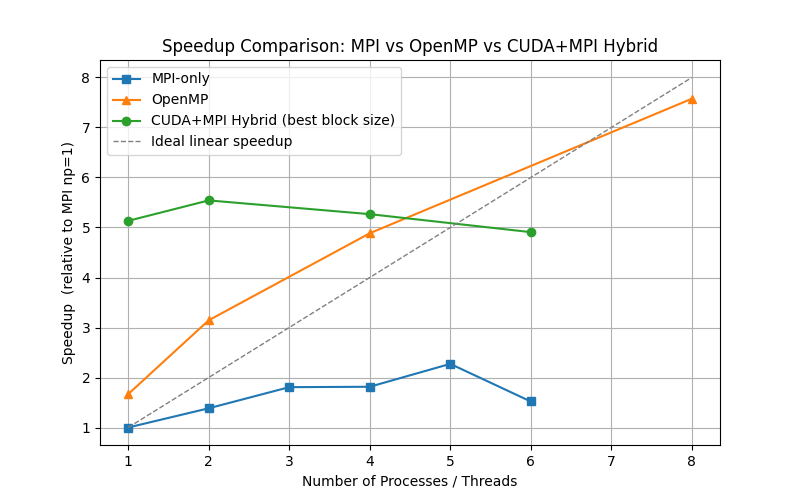
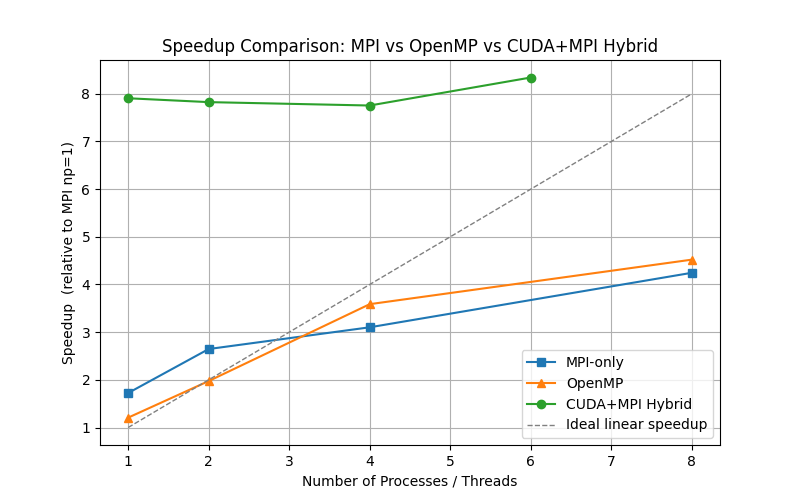
fix: corrected the speedup graph

diff --git a/scripts/visualization/plot_hybrid_speedup.py b/scripts/visualization/plot_hybrid_speedup.py
@@ -19,11 +19,19 @@ plots_dir.mkdir(parents=True, exist_ok=True)
 image_path   = plots_dir / "hybrid_speedup_comparison.png"
 
 hybrid_path = bench_dir / "hybrid_benchmarks.txt"
-mpi_path    = bench_dir / "mpi_benchmarks.txt"
-omp_path    = bench_dir / "openmp_execution_results.txt"
+mpi_exec_path = bench_dir / "mpi_execution_results.txt"
+omp_exec_path = bench_dir / "openmp_execution_results.txt"
+
+# speedup files (saved, same format as MPI/OpenMP speedup outputs)
+mpi_speedup_path = bench_dir / "mpi_speedup_results.txt"
+omp_speedup_path = bench_dir / "openmp_speedup_results.txt"
+hybrid_speedup_path = bench_dir / "hybrid_speedup_results.txt"
+
+# serial baseline (used to compute speedup values)
+serial_time_path = bench_dir / "serial_execution_results.txt"
 
 # ── Check files exist ─────────────────────────────────────────────────────────
-missing = [p for p in (hybrid_path, mpi_path, omp_path) if not p.exists()]
+missing = [p for p in (hybrid_path, mpi_exec_path, omp_exec_path) if not p.exists()]
 if missing:
     print("Missing benchmark files:")
     for p in missing:
@@ -62,40 +70,75 @@ def load_hybrid_best(path):
     return best
 
 # ── Load ──────────────────────────────────────────────────────────────────────
-mpi_data    = load_two_col(mpi_path)
-omp_data    = load_two_col(omp_path)
 hybrid_best = load_hybrid_best(hybrid_path)
 
-if not hybrid_best:
-    print(f"No data found in {hybrid_path}")
+# Ensure we have a serial baseline to compute speedups the same way as other scripts
+serial_time = None
+if serial_time_path.exists():
+    try:
+        with serial_time_path.open() as f:
+            for line in f:
+                line = line.strip()
+                if not line or line.startswith("#"): continue
+                serial_time = float(line.split()[0])
+                break
+    except Exception:
+        serial_time = None
+
+# Compute and write hybrid speedup file using serial baseline (if available)
+if serial_time is not None and hybrid_best:
+    with hybrid_speedup_path.open("w", encoding="utf-8") as f:
+        f.write("# processes speedup\n")
+        for np_ in sorted(hybrid_best):
+            t = hybrid_best[np_]
+            speedup = serial_time / t if t > 0 else 0.0
+            f.write(f"{np_} {speedup:.6f}\n")
+
+# Prefer reading saved speedup files; fall back to execution-time files if missing
+def ensure_speedup(path_speedup, path_exec, label):
+    if path_speedup.exists():
+        return load_two_col(path_speedup)
+    # fallback: compute from execution times if serial baseline available
+    if serial_time is None:
+        print(f"Missing {path_speedup} and no serial baseline available to compute {label} speedup.")
+        return {}
+    if not path_exec.exists():
+        print(f"Missing execution file to compute {label} speedup: {path_exec}")
+        return {}
+    exec_data = load_two_col(path_exec)
+    speedup = {k: (serial_time / v if v > 0 else 0.0) for k, v in exec_data.items()}
+    # write the derived speedup file for transparency
+    with path_speedup.open("w", encoding="utf-8") as f:
+        f.write("# processes speedup\n")
+        for k in sorted(speedup):
+            f.write(f"{k} {speedup[k]:.6f}\n")
+    return speedup
+
+mpi_data = ensure_speedup(mpi_speedup_path, mpi_exec_path, "MPI")
+omp_data = ensure_speedup(omp_speedup_path, omp_exec_path, "OpenMP")
+hybrid_data = load_two_col(hybrid_speedup_path) if hybrid_speedup_path.exists() else {}
+
+if not hybrid_best and not hybrid_data:
+    print(f"No data found in {hybrid_path} and no hybrid speedup available")
     sys.exit(1)
-
-# ── Baseline: MPI np=1 ────────────────────────────────────────────────────────
-baseline_s = mpi_data.get(1)
-if baseline_s is None:
-    baseline_s = mpi_data[min(mpi_data)]
-    print(f"Note: MPI np=1 not found — using np={min(mpi_data)} as baseline.")
-
-print(f"Baseline (MPI np=1): {baseline_s:.6f} s")
 
 # ── Plot ──────────────────────────────────────────────────────────────────────
 plt.figure(figsize=(8, 5))
 
-mpi_np    = sorted(mpi_data)
-plt.plot(mpi_np, [baseline_s / mpi_data[n] for n in mpi_np],
-         marker="s", label="MPI-only")
+# Plot saved/derived speedup files
+mpi_np = sorted(mpi_data)
+plt.plot(mpi_np, [mpi_data[n] for n in mpi_np], marker="s", label="MPI-only")
 
 omp_t = sorted(omp_data)
-plt.plot(omp_t, [baseline_s / omp_data[t] for t in omp_t],
-         marker="^", label="OpenMP")
+plt.plot(omp_t, [omp_data[t] for t in omp_t], marker="^", label="OpenMP")
 
-hyb_np = sorted(hybrid_best)
-plt.plot(hyb_np, [baseline_s / hybrid_best[n] for n in hyb_np],
-         marker="o", label="CUDA+MPI Hybrid (best block size)")
+# hybrid_data may be empty if we couldn't compute it
+hyb_np = sorted(hybrid_data)
+if hyb_np:
+    plt.plot(hyb_np, [hybrid_data[n] for n in hyb_np], marker="o", label="CUDA+MPI Hybrid")
 
 all_x = sorted(set(mpi_np + omp_t + hyb_np))
-plt.plot(all_x, [float(x) for x in all_x],
-         linestyle="--", color="grey", linewidth=1.0, label="Ideal linear speedup")
+plt.plot(all_x, [float(x) for x in all_x], linestyle="--", color="grey", linewidth=1.0, label="Ideal linear speedup")
 
 plt.xlabel("Number of Processes / Threads")
 plt.ylabel("Speedup  (relative to MPI np=1)")
